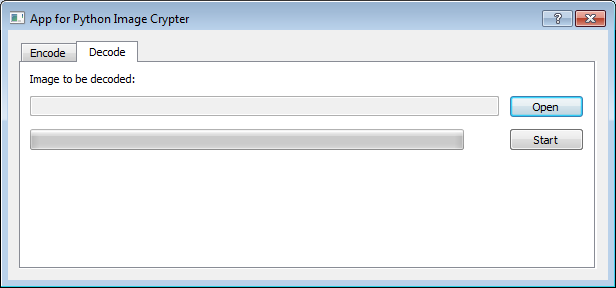
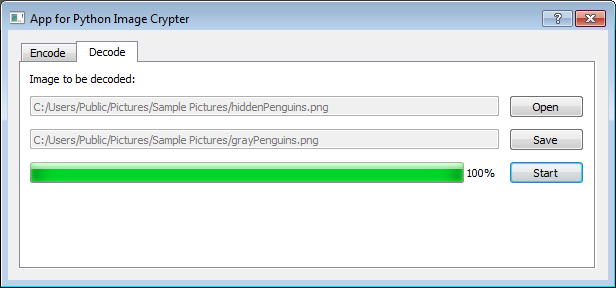
Added 2bit swapping. Added option for saving the decoded image.

diff --git a/app/main_app.py b/app/main_app.py
@@ -131,6 +131,8 @@ class DecodeTab(QtGui.QWidget):
         grid.setAlignment(QtCore.Qt.AlignTop)
         grid.setVerticalSpacing(10)
 
+        self.decodeSaveImage = ''
+
         self.imageToDecodeLabel = QtGui.QLabel(self)
         self.imageToDecodeLabel.setText("Image to be decoded:")
 
@@ -139,6 +141,12 @@ class DecodeTab(QtGui.QWidget):
 
         self.imageToDecodeButton = QtGui.QPushButton("Open", self)
         self.imageToDecodeButton.clicked.connect(self.buttonClicked)
+
+        self.imageToDecodeSaveLine = QtGui.QLineEdit(self)
+        self.imageToDecodeSaveLine.setEnabled(False)
+
+        self.imageToDecodeSaveButton = QtGui.QPushButton("Save", self)
+        self.imageToDecodeSaveButton.clicked.connect(self.buttonClicked)
 
         self.startDecodeButton = QtGui.QPushButton("Start", self)
         self.startDecodeButton.clicked.connect(self.buttonClicked)
@@ -150,8 +158,11 @@ class DecodeTab(QtGui.QWidget):
         grid.addWidget(self.imageToDecodeLine, 2, 0)
         grid.addWidget(self.imageToDecodeButton, 2, 1)
 
-        grid.addWidget(self.decodeProgressBar, 3, 0)
-        grid.addWidget(self.startDecodeButton, 3, 1)
+        grid.addWidget(self.imageToDecodeSaveLine, 3, 0)
+        grid.addWidget(self.imageToDecodeSaveButton, 3, 1)
+
+        grid.addWidget(self.decodeProgressBar, 4, 0)
+        grid.addWidget(self.startDecodeButton, 4, 1)
 
         self.setLayout(grid)
 
@@ -159,7 +170,7 @@ class DecodeTab(QtGui.QWidget):
         self.decodeProgressBar.setValue(value)
 
     def decodeStart(self):
-        self.decodeThread = pic.decrypt.Decrypt(self.decodeImage, self)
+        self.decodeThread = pic.decrypt.Decrypt(self.decodeImage, self, self.decodeSaveImage)
         self.decodeThread.progress.connect(self.decodeProgressBarUpdate, QtCore.Qt.QueuedConnection)
         if not self.decodeThread.isRunning():
             self.decodeThread.start()
@@ -170,10 +181,15 @@ class DecodeTab(QtGui.QWidget):
         if sender == self.imageToDecodeButton:
             self.decodeImage = AoPIC.getImageOpenPath(self)
             self.imageToDecodeLine.setText(self.decodeImage)
-            if self.decodeProgressBar.value() == 100:
-                self.decodeProgressBar.setValue(0)
+
         elif sender == self.startDecodeButton:
             self.decodeStart()
+        elif sender == self.imageToDecodeSaveButton:
+            self.decodeSaveImage = AoPIC.getImageSavePath(self)
+            self.imageToDecodeSaveLine.setText(self.decodeSaveImage)
+
+        if self.decodeProgressBar.value() == 100:
+            self.decodeProgressBar.setValue(0)
 
         if self.decodeImage:
             self.startDecodeButton.setEnabled(True)

diff --git a/pic/decrypt.py b/pic/decrypt.py
@@ -8,10 +8,11 @@ from PIL import Image
 class Decrypt (QtCore.QThread): #TODO: <!> REFACTOR WHOLE CLASS </!>
     progress = QtCore.Signal(int)
 
-    def __init__(self, image, parent=None):
+    def __init__(self, image, parent=None, saveImage=''):
         super(Decrypt, self).__init__(parent)
         self.__image = image
         self.__parent = parent
+        self.__saveImage = saveImage
 
         try: #TODO: Implement pop-up like errors !
             self.iTE = Image.open(self.__image)
@@ -19,14 +20,9 @@ class Decrypt (QtCore.QThread): #TODO: <!> REFACTOR WHOLE CLASS </!>
             print(err) #TODO: Error Handling
 
     @staticmethod
-    def mod2(x):
-        return '1' if x % 2 == 0 else '1'
-
-    def __readBinListToPix(self, x):
-        n = round(int(self.mod2(x[0]) + self.mod2(x[1]) + self.mod2(x[2]), 2) * 256 / 7  ) # 36.5 = 256 / 7 # TODO: Make tests with ne and old version
-        #g = [bin(x[0])[-1:], bin(x[1])[-1:], bin(x[2])[-1:]] # TODO: Make test
-        #n = round(int(str(g[0]) + g[1] + g[2],2)*256/7)
-        return n, n, n
+    def __readPix(x):
+        g = int( bin(x[0])[2:][-2:]+bin(x[1])[2:][-2:]+bin(x[2])[2:][-2:], 2) * 4 #To RGB
+        return g,g,g
 
     def run(self):
         ite_pix = self.iTE.load()
@@ -36,8 +32,10 @@ class Decrypt (QtCore.QThread): #TODO: <!> REFACTOR WHOLE CLASS </!>
 
         for x in range(0, width):
             for y in range(0, height):
-                im_pix[x,y] = self.__readBinListToPix(ite_pix[x,y])
+                im_pix[x,y] = self.__readPix(ite_pix[x,y])
                 QtCore.QThread.sleep(0.1)
             self.progress.emit(round(100*x/width))
 
+        if self.__saveImage:
+            image.save(self.__saveImage)
         image.show()

diff --git a/pic/encrypt.py b/pic/encrypt.py
@@ -20,22 +20,18 @@ class Encrypt (QtCore.QThread):
             print(err) #TODO: Error Handling
 
     def __pixWrite(self, x, n):
-        return self.__bitWrite(x[0], n//4), self.__bitWrite(x[1], n%4//2), self.__bitWrite(x[2], n%2)
+        return self.__bitWrite(x[0], n[:2]), self.__bitWrite(x[1], n[2:4]), self.__bitWrite(x[2], n[4:6])
 
     @staticmethod
     def __bitWrite(n, x):
-        if n%2 == 0:
-            return n+x
-        else:
-            return n-1 if x==0 else n
+        return int(bin(n)[:-2]+x,2)
+
     @staticmethod
     def __pixToGray(x):
         if type(x) == tuple:
             x = sum(x)/len(x)
-        n = int(x//37)
-        if x%37>18.5:
-            n+=1
-        return n
+        n = int(x//4)
+        return bin(n)[2:].zfill(6)
 
     def run(self):
         #TODO: Implement pop-ups for differences in sizes of images
